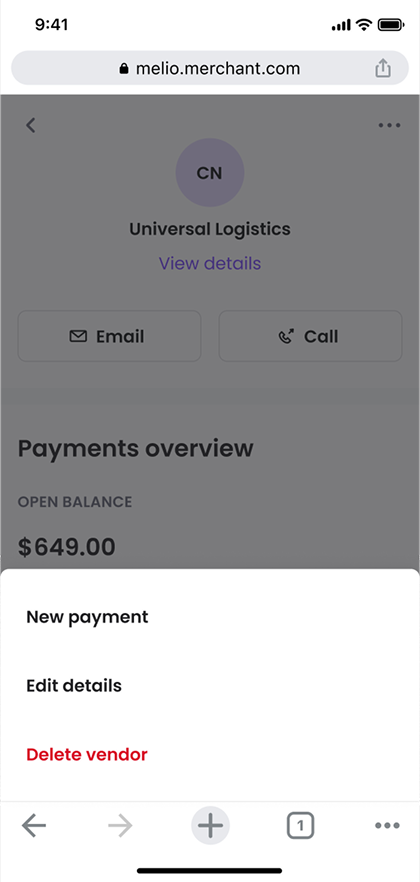
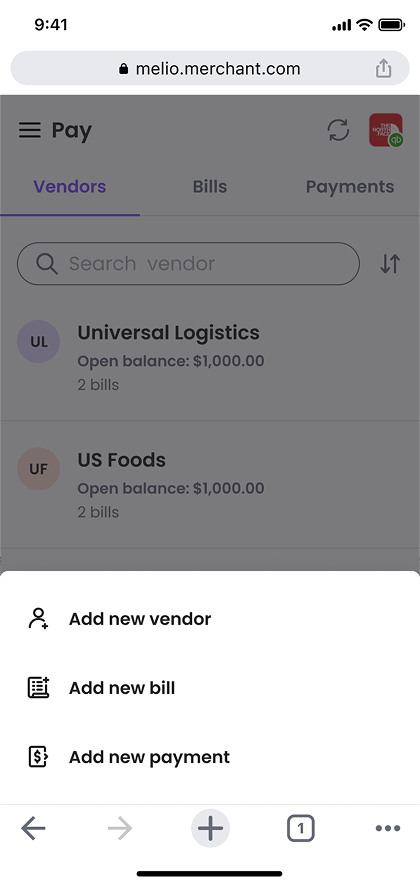
Batch: Reflection lists→bullets (wixel+melio-opt); global bullet gap 4px; finaloop Pattern-inspirations rebuilt from Figma collage (210:33161); melio-redesign drill-in img replaced (264:12269); bugs rows 1/3/5 anchor-end like 2/4 (294:8211); project-card arrow vertically centered (329:8182)

diff --git a/projects/melio-optimization.html b/projects/melio-optimization.html
@@ -9,8 +9,8 @@
   <link rel="stylesheet" href="https://fonts.googleapis.com/css2?family=DM+Sans:ital,opsz,wght@0,9..40,300..700;1,9..40,300..700&display=swap" />
   <link rel="stylesheet" href="https://fonts.googleapis.com/css2?family=Fraunces:ital,opsz,SOFT,WONK@1,9..144,0,1&display=swap" />
   <link rel="stylesheet" href="../css/tokens.css?v=6" />
-  <link rel="stylesheet" href="../css/site.css?v=21" />
-  <link rel="stylesheet" href="../css/case-study.css?v=22" />
+  <link rel="stylesheet" href="../css/site.css?v=22" />
+  <link rel="stylesheet" href="../css/case-study.css?v=23" />
   <link rel="stylesheet" href="../css/components.css?v=10" />
   <style>
     /* geometry 1:1 from Figma hero image 210:5426 (528×512):
@@ -390,11 +390,11 @@
 
       <p class="cap-block t" style="font-weight:500;">System bugs and inconsistency mapping</p>
       <div class="bugs-band">
-        <div class="bugs-row from-right"><img src="../assets/melio-opt/bugs-row-1.png?v=3" alt="" /></div>
+        <div class="bugs-row from-right" data-anchor="end"><img src="../assets/melio-opt/bugs-row-1.png?v=3" alt="" /></div>
         <div class="bugs-row from-left" data-anchor="end"><img src="../assets/melio-opt/bugs-row-2.png?v=2" alt="" /></div>
-        <div class="bugs-row from-right"><img src="../assets/melio-opt/bugs-row-3.png?v=3" alt="" /></div>
+        <div class="bugs-row from-right" data-anchor="end"><img src="../assets/melio-opt/bugs-row-3.png?v=3" alt="" /></div>
         <div class="bugs-row from-left" data-anchor="end"><img src="../assets/melio-opt/bugs-row-4.png?v=2" alt="" /></div>
-        <div class="bugs-row from-right"><img src="../assets/melio-opt/bugs-row-5.png?v=3" alt="" /></div>
+        <div class="bugs-row from-right" data-anchor="end"><img src="../assets/melio-opt/bugs-row-5.png?v=3" alt="" /></div>
       </div>
 
       <p class="cap-block t" style="font-weight:500;">Responsive Layouts Guidelines</p>
@@ -470,9 +470,9 @@
         <h2 class="h2-med">Reflection</h2>
         <p class="body-2 txt-ink">This project ran on funnel analytics and flow mapping rather than formal user research — the questions were pulled with the PM from the data, and the redesign was judged by the one number that mattered. It moved. What I'd examine next:</p>
         <div class="cs-list gap-8">
-          <div class="cs-bullet"><p class="marker">1.</p><p>Did the 62% drop flatten — or just move downstream?</p></div>
-          <div class="cs-bullet"><p class="marker">2.</p><p>The 20-point gap to desktop: how much is context, how much is UX debt?</p></div>
-          <div class="cs-bullet"><p class="marker">3.</p><p>Does saved progress actually bring abandoners back?</p></div>
+          <div class="cs-bullet"><p class="marker">•</p><p>Did the 62% drop flatten — or just move downstream?</p></div>
+          <div class="cs-bullet"><p class="marker">•</p><p>The 20-point gap to desktop: how much is context, how much is UX debt?</p></div>
+          <div class="cs-bullet"><p class="marker">•</p><p>Does saved progress actually bring abandoners back?</p></div>
         </div>
       </section>
 

diff --git a/projects/finaloop.html b/projects/finaloop.html
@@ -9,8 +9,8 @@
   <link rel="stylesheet" href="https://fonts.googleapis.com/css2?family=DM+Sans:ital,opsz,wght@0,9..40,300..700;1,9..40,300..700&display=swap" />
   <link rel="stylesheet" href="https://fonts.googleapis.com/css2?family=Fraunces:ital,opsz,SOFT,WONK@1,9..144,0,1&display=swap" />
   <link rel="stylesheet" href="../css/tokens.css?v=6" />
-  <link rel="stylesheet" href="../css/site.css?v=21" />
-  <link rel="stylesheet" href="../css/case-study.css?v=22" />
+  <link rel="stylesheet" href="../css/site.css?v=22" />
+  <link rel="stylesheet" href="../css/case-study.css?v=23" />
   <link rel="stylesheet" href="../css/components.css?v=10" />
   <style>
     .fin-art { position: relative; width: 609px; max-width: 100%; height: 100%; align-self: stretch; justify-self: start; }
@@ -238,17 +238,11 @@
 
       <!-- Pattern inspirations -->
       <section class="case-card wide reveal" style="align-items:center;">
-        <div class="patterns-stage">
-          <div class="pimg" style="left:5.8%; top:2.8%; width:61.6%; height:57.9%;"><img src="../assets/finaloop-page/imgImage.png" alt="" class="lb" /></div>
-          <div class="pimg" style="left:72.3%; top:0; width:19.3%; height:41.1%; box-shadow:-12px 32px 44px rgba(0,0,0,0.09);"><img src="../assets/finaloop-page/imgImage2.png" alt="" class="lb" /></div>
-          <div class="pimg" style="left:38.2%; top:46.5%; width:21.5%; height:43%; box-shadow:-12px 32px 44px rgba(0,0,0,0.09);"><img src="../assets/finaloop-page/imgImage1.png" alt="" class="lb" /></div>
-          <div class="pimg" style="left:72.3%; top:46.5%; width:24.8%; height:51.3%; box-shadow:-5px 14px 19px rgba(0,0,0,0.09);"><img src="../assets/finaloop-page/pattern-height-mapping.png" alt="" class="lb" /></div>
-          <div class="pimg" style="left:0; top:69.7%; width:32.8%; height:30.3%; box-shadow:-5px 14px 19px rgba(0,0,0,0.09);"><img src="../assets/finaloop-page/imgImage3.png" alt="" class="lb" /></div>
-        </div>
         <div class="card-caption">
           <p style="font-weight:500;">Pattern inspirations</p>
           <p class="dim">Click to enlarge.</p>
         </div>
+        <img src="../assets/finaloop-page/pattern-inspirations.png" alt="" style="width:100%; max-width:910px; display:block;" class="lb" />
       </section>
 
       <!-- Execution/01 -->

diff --git a/projects/wixel.html b/projects/wixel.html
@@ -9,8 +9,8 @@
   <link rel="stylesheet" href="https://fonts.googleapis.com/css2?family=DM+Sans:ital,opsz,wght@0,9..40,300..700;1,9..40,300..700&display=swap" />
   <link rel="stylesheet" href="https://fonts.googleapis.com/css2?family=Fraunces:ital,opsz,SOFT,WONK@1,9..144,0,1&display=swap" />
   <link rel="stylesheet" href="../css/tokens.css?v=6" />
-  <link rel="stylesheet" href="../css/site.css?v=21" />
-  <link rel="stylesheet" href="../css/case-study.css?v=22" />
+  <link rel="stylesheet" href="../css/site.css?v=22" />
+  <link rel="stylesheet" href="../css/case-study.css?v=23" />
   <link rel="stylesheet" href="../css/components.css?v=10" />
 </head>
 <body>
@@ -468,9 +468,9 @@
         <h2 class="h2-med">Reflection</h2>
         <p class="body-2 txt-ink">Based on the measurement plan above, if I owned the next product cycle of Wixel Mobile, the first three areas I would prioritize for testing are:</p>
         <div class="cs-list gap-8">
-          <div class="cs-bullet"><p class="marker">1.</p><p>Does the consent sheet's credit line lift upgrades - or abandonment?</p></div>
-          <div class="cs-bullet"><p class="marker">2.</p><p>Do prompt chips cannibalize written prompts, and does it matter?</p></div>
-          <div class="cs-bullet"><p class="marker">3.</p><p>After a paid failure - do users retry, edit, or leave?</p></div>
+          <div class="cs-bullet"><p class="marker">•</p><p>Does the consent sheet's credit line lift upgrades - or abandonment?</p></div>
+          <div class="cs-bullet"><p class="marker">•</p><p>Do prompt chips cannibalize written prompts, and does it matter?</p></div>
+          <div class="cs-bullet"><p class="marker">•</p><p>After a paid failure - do users retry, edit, or leave?</p></div>
         </div>
       </section>
 

diff --git a/projects/penny.html b/projects/penny.html
@@ -9,8 +9,8 @@
   <link rel="stylesheet" href="https://fonts.googleapis.com/css2?family=DM+Sans:ital,opsz,wght@0,9..40,300..700;1,9..40,300..700&display=swap" />
   <link rel="stylesheet" href="https://fonts.googleapis.com/css2?family=Fraunces:ital,opsz,SOFT,WONK@1,9..144,0,1&display=swap" />
   <link rel="stylesheet" href="../css/tokens.css?v=6" />
-  <link rel="stylesheet" href="../css/site.css?v=21" />
-  <link rel="stylesheet" href="../css/case-study.css?v=22" />
+  <link rel="stylesheet" href="../css/site.css?v=22" />
+  <link rel="stylesheet" href="../css/case-study.css?v=23" />
   <link rel="stylesheet" href="../css/components.css?v=10" />
   <style>
     .penny-art { position: relative; height: 100%; width: 638px; max-width: none; align-self: stretch; justify-self: end; font-family: "DM Sans", sans-serif; }

diff --git a/projects/melio-redesign.html b/projects/melio-redesign.html
@@ -9,8 +9,8 @@
   <link rel="stylesheet" href="https://fonts.googleapis.com/css2?family=DM+Sans:ital,opsz,wght@0,9..40,300..700;1,9..40,300..700&display=swap" />
   <link rel="stylesheet" href="https://fonts.googleapis.com/css2?family=Fraunces:ital,opsz,SOFT,WONK@1,9..144,0,1&display=swap" />
   <link rel="stylesheet" href="../css/tokens.css?v=6" />
-  <link rel="stylesheet" href="../css/site.css?v=21" />
-  <link rel="stylesheet" href="../css/case-study.css?v=22" />
+  <link rel="stylesheet" href="../css/site.css?v=22" />
+  <link rel="stylesheet" href="../css/case-study.css?v=23" />
   <link rel="stylesheet" href="../css/components.css?v=10" />
   <style>
     /* page-specific: Melio hero art (Safari window + phone) */

diff --git a/css/site.css b/css/site.css
@@ -101,7 +101,7 @@ button { font: inherit; border: 0; background: none; padding: 0; cursor: pointer
   gap: var(--sm);
   padding-top: var(--ml);
 }
-.project-card .card-head { display: flex; align-items: flex-start; gap: 10px; width: 100%; }
+.project-card .card-head { display: flex; align-items: center; gap: 10px; width: 100%; }
 .project-card .text-block { flex: 1 1 0; min-width: 1px; display: flex; flex-direction: column; align-items: flex-start; gap: var(--xxs); }
 .project-card .card-body .desc { color: var(--body); }
 /* arrow button: hidden at rest, fades in (bordered) on hover, dark-filled on press */

diff --git a/about.html b/about.html
@@ -9,7 +9,7 @@
   <link rel="stylesheet" href="https://fonts.googleapis.com/css2?family=DM+Sans:ital,opsz,wght@0,9..40,300..700;1,9..40,300..700&display=swap" />
   <link rel="stylesheet" href="https://fonts.googleapis.com/css2?family=Fraunces:ital,opsz,SOFT,WONK@1,9..144,0,1&display=swap" />
   <link rel="stylesheet" href="css/tokens.css?v=6" />
-  <link rel="stylesheet" href="css/site.css?v=21" />
+  <link rel="stylesheet" href="css/site.css?v=22" />
   <link rel="stylesheet" href="css/components.css?v=7" />
 </head>
 <body>

diff --git a/case-studies.html b/case-studies.html
@@ -9,7 +9,7 @@
   <link rel="stylesheet" href="https://fonts.googleapis.com/css2?family=DM+Sans:ital,opsz,wght@0,9..40,300..700;1,9..40,300..700&display=swap" />
   <link rel="stylesheet" href="https://fonts.googleapis.com/css2?family=Fraunces:ital,opsz,SOFT,WONK@1,9..144,0,1&display=swap" />
   <link rel="stylesheet" href="css/tokens.css?v=6" />
-  <link rel="stylesheet" href="css/site.css?v=21" />
+  <link rel="stylesheet" href="css/site.css?v=22" />
   <link rel="stylesheet" href="css/components.css?v=7" />
 </head>
 <body>

diff --git a/index.html b/index.html
@@ -9,7 +9,7 @@
   <link rel="stylesheet" href="https://fonts.googleapis.com/css2?family=DM+Sans:ital,opsz,wght@0,9..40,300..700;1,9..40,300..700&display=swap" />
   <link rel="stylesheet" href="https://fonts.googleapis.com/css2?family=Fraunces:ital,opsz,SOFT,WONK@1,9..144,0,1&display=swap" />
   <link rel="stylesheet" href="css/tokens.css?v=6" />
-  <link rel="stylesheet" href="css/site.css?v=21" />
+  <link rel="stylesheet" href="css/site.css?v=22" />
   <link rel="stylesheet" href="css/components.css?v=7" />
 </head>
 <body>

diff --git a/css/case-study.css b/css/case-study.css
@@ -224,7 +224,7 @@
 
 /* bullet / numbered lists */
 .cs-list { display: flex; flex-direction: column; gap: var(--xxs); width: 100%; }
-.cs-list.gap-8 { gap: var(--xs); }
+.cs-list.gap-8 { gap: var(--xxs); }
 .cs-bullet { display: flex; gap: var(--xs); align-items: flex-start; font-size: 20px; font-weight: 300; line-height: 1.4; letter-spacing: -0.02em; color: var(--ink); }
 .cs-bullet .marker { flex: none; white-space: nowrap; color: var(--accent); }
 .cs-bullet p:last-child { flex: 1; min-width: 1px; }
